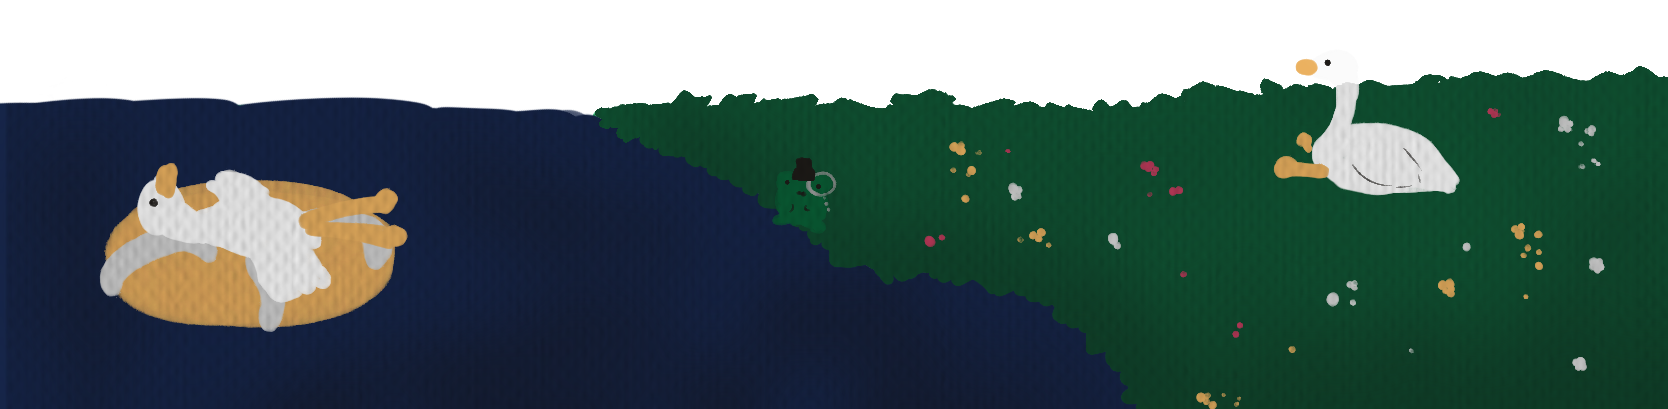
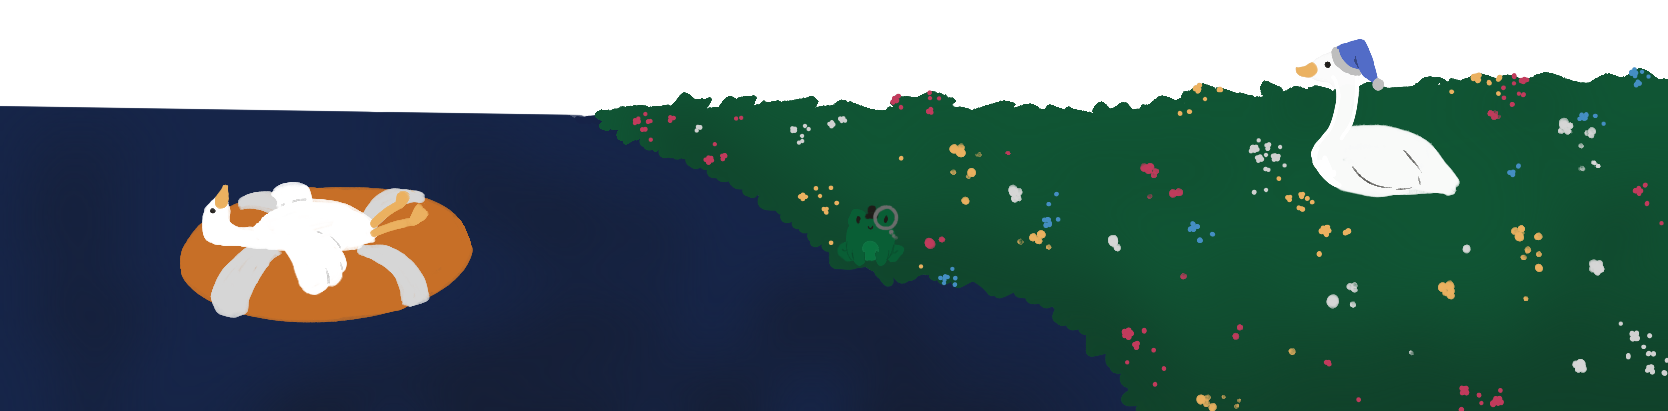
YAYAYYAYA IM DONE FREEDOM YIPPEE

diff --git a/app/globals.css b/app/globals.css
@@ -103,6 +103,20 @@ nav ul li {
   margin-left: 70px;
 }
 
+@media (max-width: 450px) {
+  .header-links {
+    left: 0;
+    right: 0;
+    width: 100%;
+    justify-content: space-evenly;
+    margin: 0;
+  }
+
+  .header-link {
+    margin-left: 0;
+  }
+}
+
 .header-link-text {
   font-size: 1.3em;
   font-weight: 700;
@@ -188,6 +202,24 @@ button:focus-visible {
 
   h1 {
     font-size: 2.5rem;
+  }
+}
+
+@media (max-width: 455px) {
+  h1 {
+    font-size: 2.2rem;
+  }
+}
+
+@media (max-width: 415px) {
+  h1 {
+    font-size: 2rem;
+  }
+}
+
+@media (max-width: 385px) {
+  h1 {
+    font-size: 1.9rem;
   }
 }
 

diff --git a/app/blog/[slug]/page.jsx b/app/blog/[slug]/page.jsx
@@ -1,5 +1,6 @@
 import Image from 'next/image';
 import '../../globals.css';
+import '../../projects/Projects.css';
 import '../Blog.css';
 import ReactMarkdown from 'react-markdown';
 import remarkGfm from 'remark-gfm';

diff --git a/app/blog/page.jsx b/app/blog/page.jsx
@@ -1,4 +1,5 @@
 import '../globals.css';
+import '../projects/Projects.css';
 import './Blog.css';
 import Link from 'next/link';
 import { getAllPosts } from './lib/posts';

diff --git a/app/blog/Blog.css b/app/blog/Blog.css
@@ -1,3 +1,7 @@
+.section-title {
+  text-shadow: 0.5px 0.5px 5px rgba(0, 0, 0, 1);
+}
+
 .blog-list {
   width: 100%;
   max-width: 900px;
